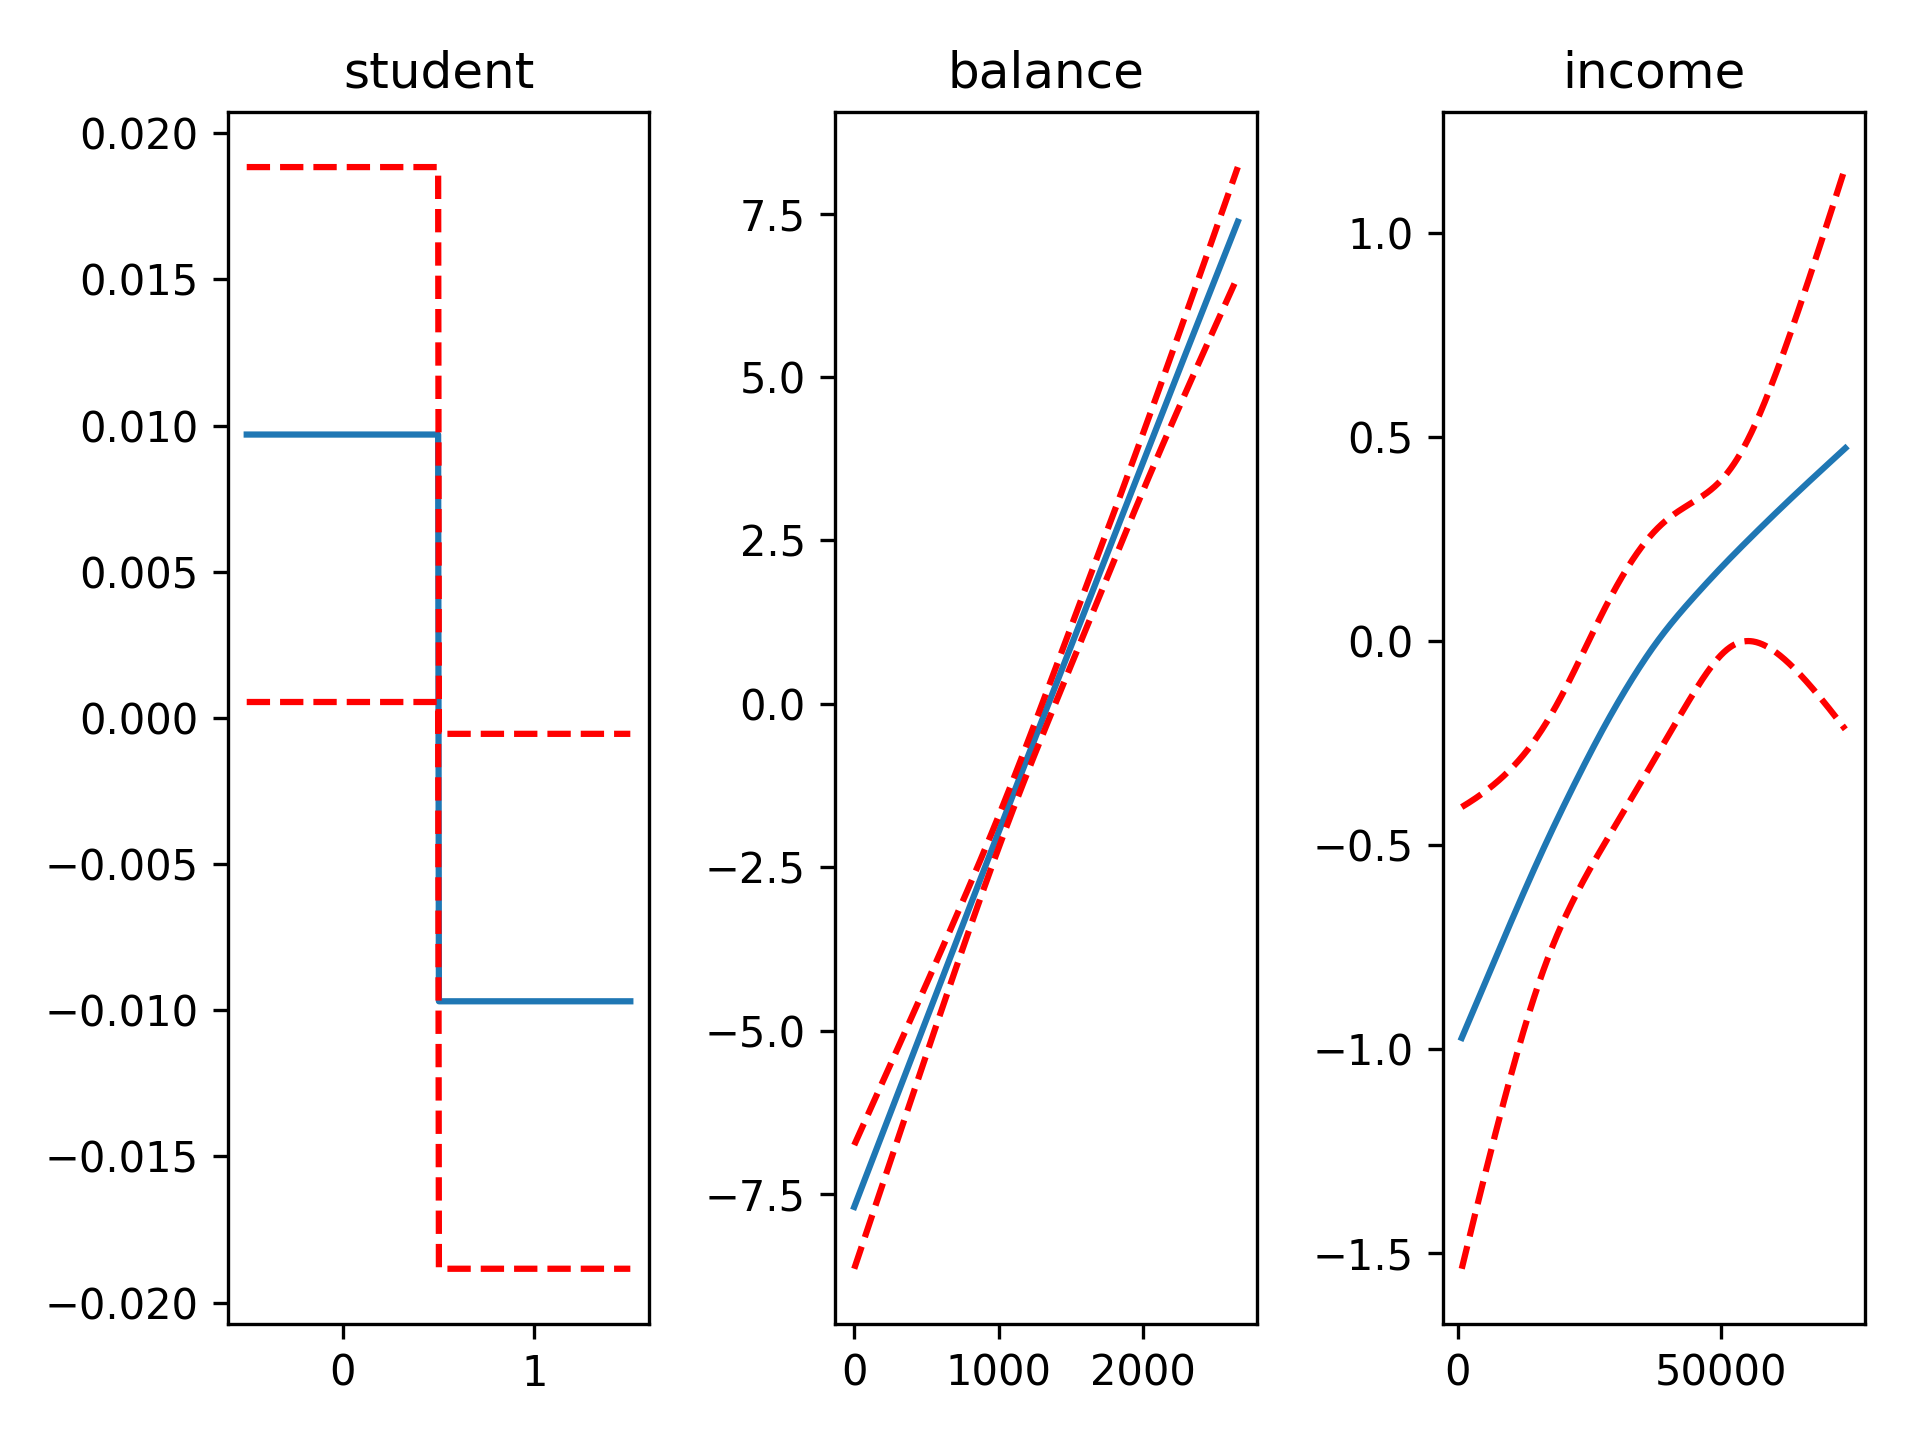
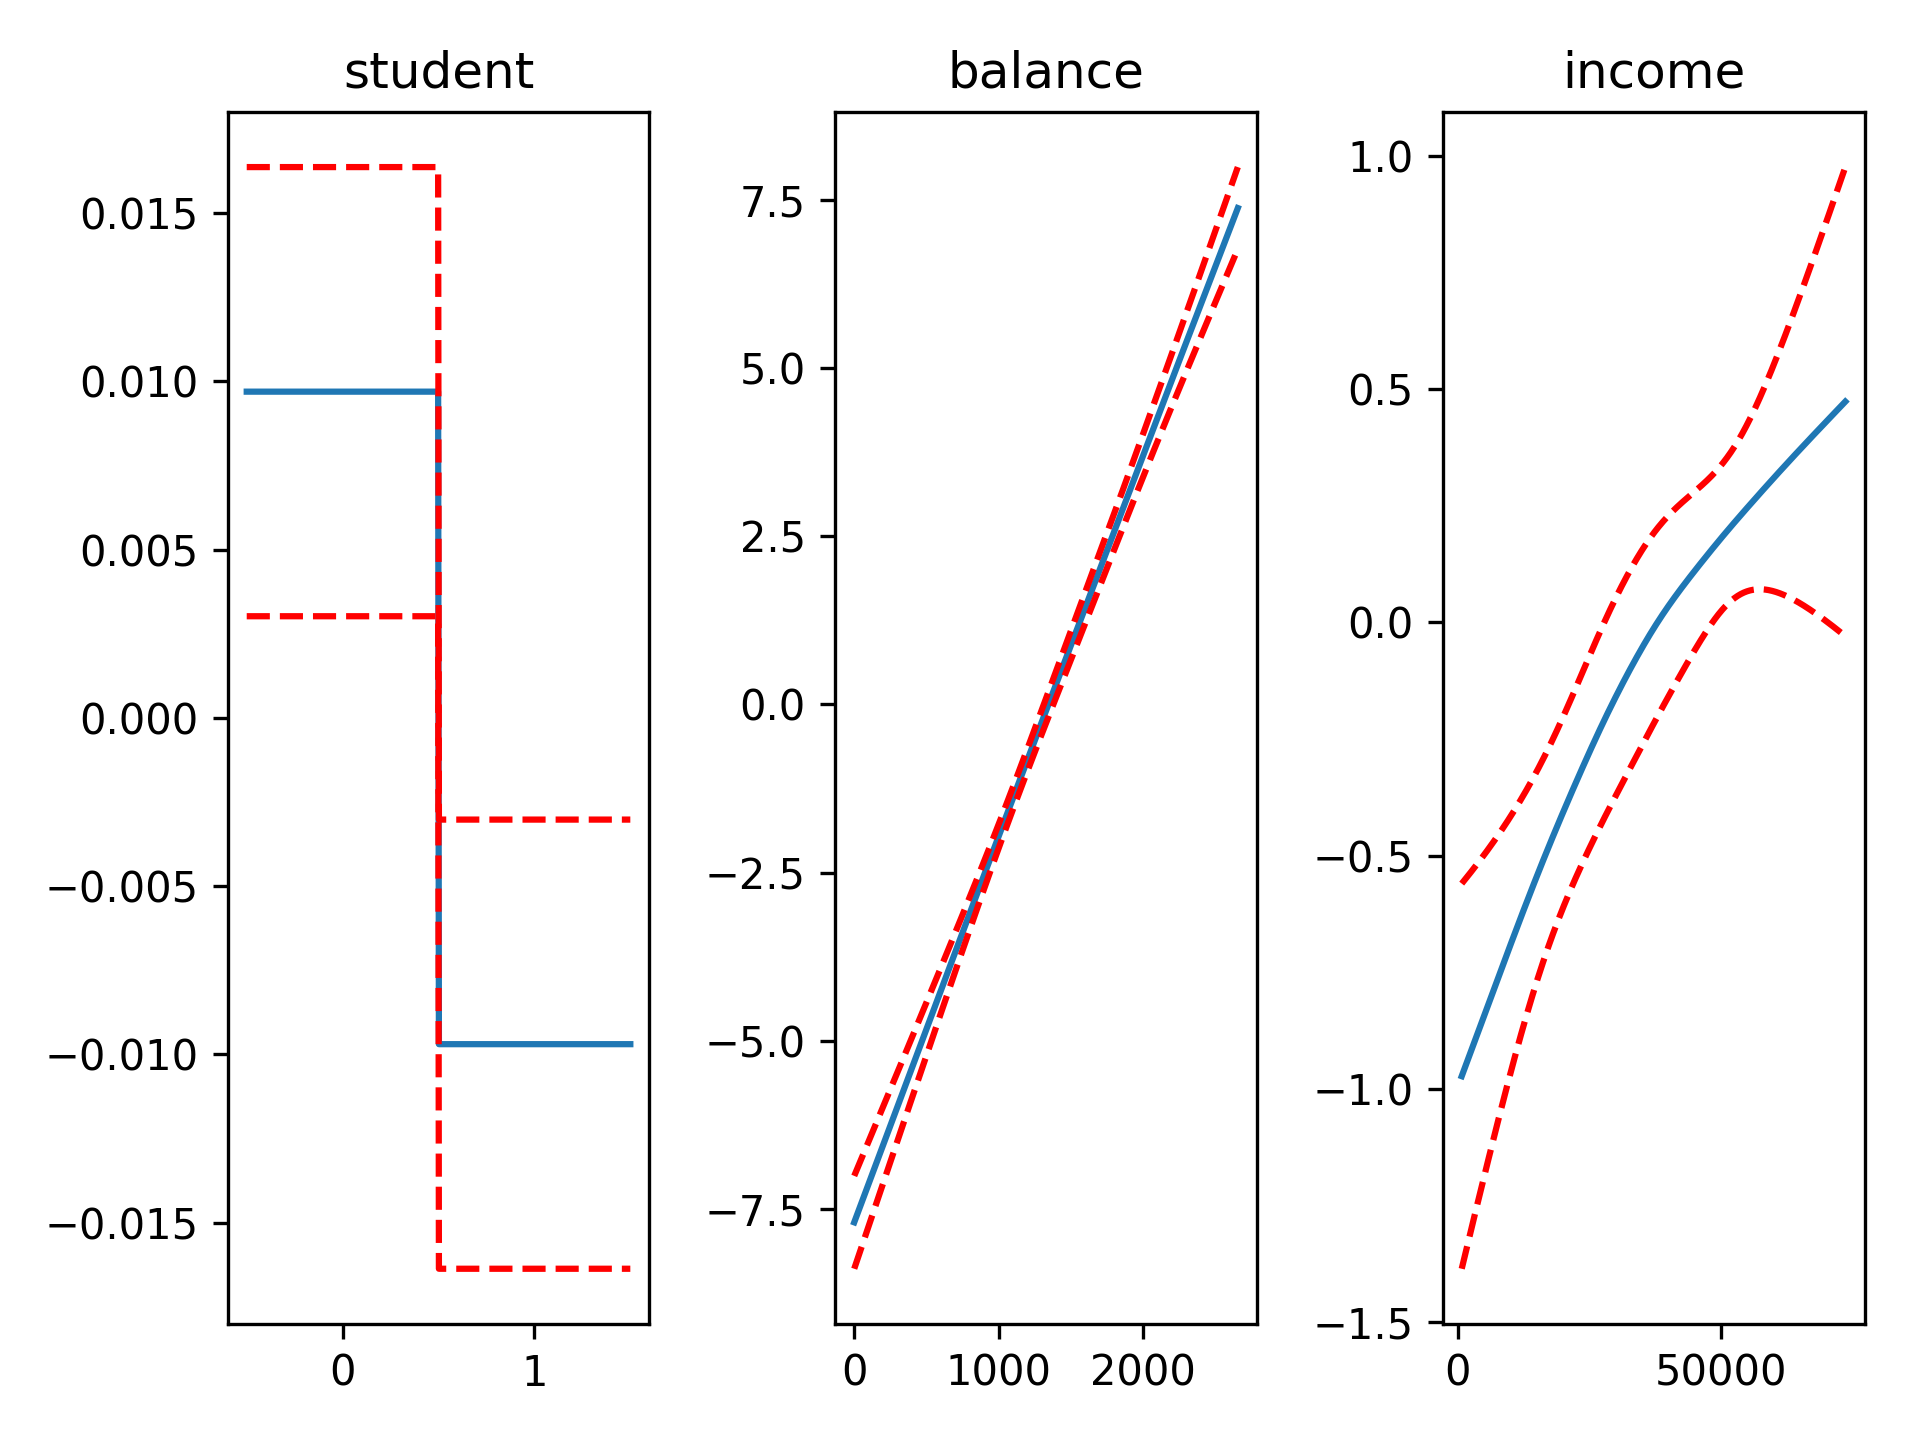
regen images, readme has no i+1, use toy_classification dataset

diff --git a/gen_imgs.py b/gen_imgs.py
@@ -8,6 +8,7 @@ from matplotlib.font_manager import FontProperties
 
 from pygam import *
 from pygam.utils import generate_X_grid
+from pygam.datasets import hepatitis, wage, faithful, mcycle, trees, default, cake, toy_classification
 
 np.random.seed(420)
 fontP = FontProperties()
@@ -19,60 +20,6 @@ fontP.set_size('small')
 # wage dataset to illustrate partial dependence
 # monotonic increasing, concave constraint on hep data
 # prediction intervals on motorcycle data
-
-
-def hepatitis():
-    hep = pd.read_csv('datasets/hepatitis_A_bulgaria.csv').astype(float)
-    # eliminate 0/0
-    mask = (hep.total > 0).values
-    hep = hep[mask]
-    X = hep.age.values
-    y = hep.hepatitis_A_positive.values / hep.total.values
-    return X, y
-
-def mcycle():
-    motor = pd.read_csv('datasets/mcycle.csv', index_col=0)
-    X = motor.times.values[:,None]
-    y = motor.accel
-    return X, y
-
-def faithful():
-    faithful = pd.read_csv('datasets/faithful.csv', index_col=0)
-    y, xx, _ = plt.hist(faithful.values[:,0], bins=200, color='k')
-    X = xx[:-1] + np.diff(xx)/2 # get midpoints of bins
-    return X, y
-
-def wage():
-    wage = pd.read_csv('datasets/wage.csv', index_col=0)
-    X = wage[['year', 'age', 'education']].values
-    y = wage['wage'].values
-
-    # change education level to integers
-    X[:,-1] = np.unique(X[:,-1], return_inverse=True)[1]
-    return X, y
-
-def trees():
-    trees = pd.read_csv('datasets/trees.csv', index_col=0)
-    y = trees.Volume
-    X = trees[['Girth', 'Height']]
-    return X, y
-
-def default():
-    default = pd.read_csv('datasets/default.csv', index_col=0)
-    default = default.values
-    default[:,0] = np.unique(default[:,0], return_inverse=True)[1]
-    default[:,1] = np.unique(default[:,1], return_inverse=True)[1]
-    X = default[:,1:]
-    y = default[:,0]
-    return X, y
-
-def cake():
-    cake = pd.read_csv('datasets/cake.csv', index_col=0)
-    X = cake[['recipe', 'replicate', 'temperature']].values
-    X[:,0] = np.unique(cake.values[:,1], return_inverse=True)[1]
-    X[:,1] -= 1
-    y = cake['angle'].values
-    return X, y
 
 def gen_basis_fns():
     X, y = hepatitis()
@@ -109,10 +56,10 @@ def faithful_data_poisson():
     gam = PoissonGAM().gridsearch(X, y)
 
     plt.figure()
-    plt.bar(X, y, width=np.diff(X)[0], color='k')
+    plt.hist(faithful(return_X_y=False)['eruptions'], bins=200, color='k');
 
     plt.plot(X, gam.predict(X), color='r')
-    plt.title('Best Lamba: {0:.2f}'.format(gam.lam))
+    plt.title('Best Lambda: {0:.2f}'.format(gam.lam))
     plt.savefig('imgs/pygam_poisson.png', dpi=300)
 
 def single_data_linear():
@@ -125,7 +72,7 @@ def single_data_linear():
     plt.figure()
     plt.scatter(X, y, facecolor='gray', edgecolors='none')
     plt.plot(X, gam.predict(X), color='r')
-    plt.title('Best Lamba: {0:.2f}'.format(gam.lam))
+    plt.title('Best Lambda: {0:.2f}'.format(gam.lam))
     plt.savefig('imgs/pygam_single_pred_linear.png', dpi=300)
 
 def mcycle_data_linear():
@@ -172,8 +119,8 @@ def wage_data_linear():
 
     titles = ['year', 'age', 'education']
     for i, ax in enumerate(axs):
-        ax.plot(XX[:, i], gam.partial_dependence(XX, feature=i+1))
-        ax.plot(XX[:, i], *gam.partial_dependence(XX, feature=i+1, width=.95)[1],
+        ax.plot(XX[:, i], gam.partial_dependence(XX, feature=i))
+        ax.plot(XX[:, i], *gam.partial_dependence(XX, feature=i, width=.95)[1],
                 c='r', ls='--')
         if i == 0:
             ax.set_ylim(-30,30);
@@ -195,8 +142,8 @@ def default_data_logistic(n=500):
 
     titles = ['student', 'balance', 'income']
     for i, ax in enumerate(axs):
-        ax.plot(XX[:, i], gam.partial_dependence(XX, feature=i+1))
-        ax.plot(XX[:, i], *gam.partial_dependence(XX, feature=i+1, width=.95)[1],
+        ax.plot(XX[:, i], gam.partial_dependence(XX, feature=i))
+        ax.plot(XX[:, i], *gam.partial_dependence(XX, feature=i, width=.95)[1],
                 c='r', ls='--')
         ax.set_title(titles[i])
 
@@ -281,24 +228,17 @@ def trees_data_custom():
 #     plt.savefig('imgs/pygam_lambda_gridsearch.png', dpi=300)
 
 
-def gen_multi_data(n=200):
+def gen_multi_data(n=5000):
     """
     multivariate Logistic problem
     """
-    n = 5000
-    x = np.random.rand(n,5) * 10 - 5
-    cat = np.random.randint(0,4, n)
-    x = np.c_[x, cat]
-    log_odds = (-0.5*x[:,0]**2) + 5 +(-0.5*x[:,1]**2) + np.mod(x[:,-1], 2)*-30
-    p = 1/(1+np.exp(-log_odds)).squeeze()
-
-    obs = (np.random.rand(len(x)) < p).astype(np.int)
+    X, y = toy_classification(return_X_y=True, n=n)
 
     lgam = LogisticGAM()
-    lgam.fit(x, obs)
+    lgam.fit(X, y)
 
     plt.figure()
-    plt.plot(lgam.partial_dependence(np.sort(x, axis=0)))
+    plt.plot(lgam.partial_dependence(np.sort(X, axis=0)))
     plt.savefig('imgs/pygam_multi_pdep.png', dpi=300)
 
     plt.figure()

diff --git a/README.md b/README.md
@@ -93,7 +93,7 @@ fig, axs = plt.subplots(1, 3)
 titles = ['year', 'age', 'education']
 
 for i, ax in enumerate(axs):
-    pdep, confi = gam.partial_dependence(XX, feature=i+1, width=.95)
+    pdep, confi = gam.partial_dependence(XX, feature=i, width=.95)
 
     ax.plot(XX[:, i], pdep)
     ax.plot(XX[:, i], *confi, c='r', ls='--')
@@ -179,7 +179,7 @@ fig, axs = plt.subplots(1, 3)
 titles = ['student', 'balance', 'income']
 
 for i, ax in enumerate(axs):
-    pdep, confi = gam.partial_dependence(XX, feature=i+1, width=.95)
+    pdep, confi = gam.partial_dependence(XX, feature=i, width=.95)
 
     ax.plot(XX[:, i], pdep)
     ax.plot(XX[:, i], confi[0], c='r', ls='--')
@@ -235,7 +235,7 @@ gam = PoissonGAM().gridsearch(X, y)
 
 plt.hist(faithful(return_X_y=False)['eruptions'], bins=200, color='k');
 plt.plot(X, gam.predict(X), color='r')
-plt.title('Lam: {0:.2f}'.format(gam.lam))
+plt.title('Best Lambda: {0:.2f}'.format(gam.lam))
 ```
 <img src=imgs/pygam_poisson.png>
 
@@ -322,6 +322,9 @@ pyGAM is intuitive, modular, and adheres to a familiar API:
 
 ```python
 from pygam import LogisticGAM
+from pygam.datasets import toy_classification
+
+X, y = toy_classification(return_X_y=True)
 
 gam = LogisticGAM()
 gam.fit(X, y)
